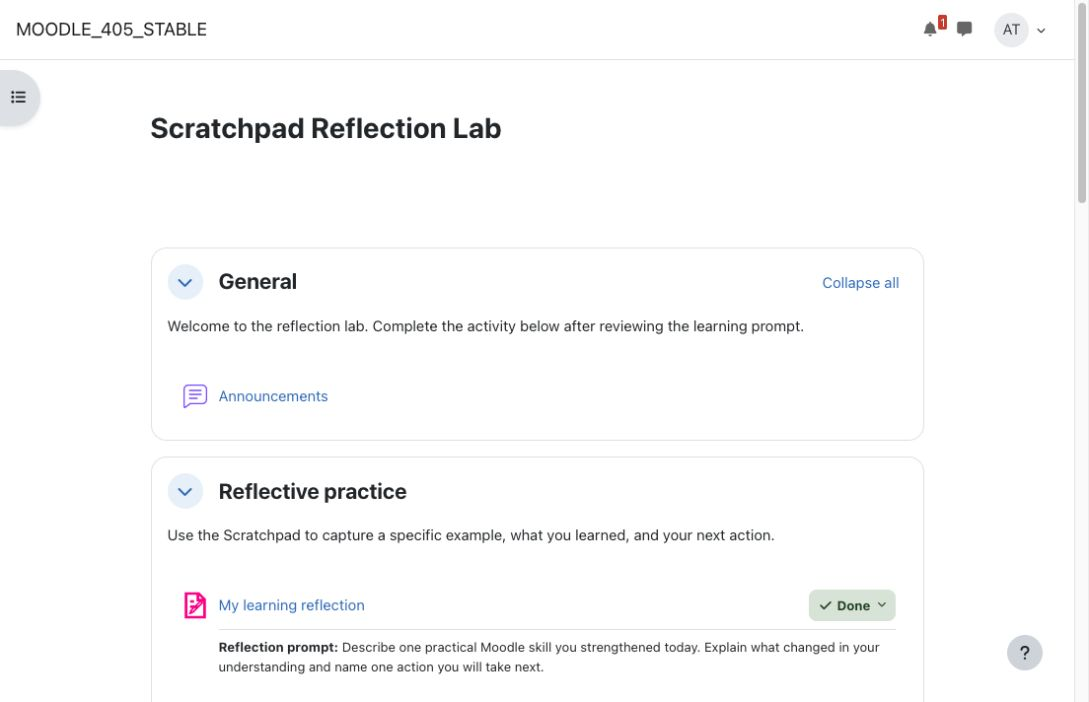
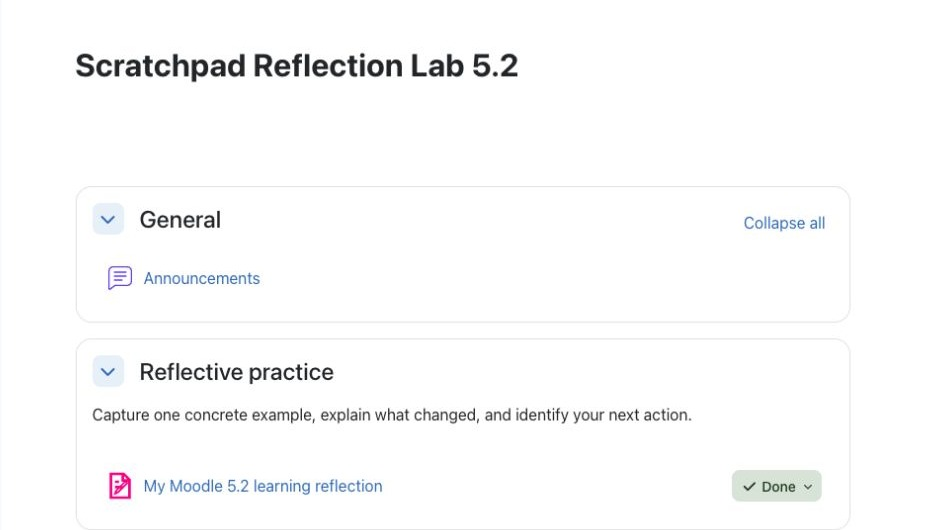
Prepare Moodle 5.2 stable support

diff --git a/tests/task/send_feedback_notifications_test.php b/tests/task/send_feedback_notifications_test.php
@@ -17,9 +17,8 @@
 namespace mod_scratchpad;
 
 use mod_scratchpad\task\send_feedback_notifications;
+use PHPUnit\Framework\Attributes\CoversClass;
 
-// Moodle 3.4 supports PHP 7.0, where the void return type is unavailable.
-// phpcs:disable moodle.PHPUnit.TestReturnType.MissingReturnType
 /**
  * Tests for the feedback notification scheduled task.
  *
@@ -27,13 +26,13 @@ use mod_scratchpad\task\send_feedback_notifications;
  * @category   test
  * @copyright  2026 Pukunui Malaysia
  * @license    http://www.gnu.org/copyleft/gpl.html GNU GPL v3 or later
- * @covers     \mod_scratchpad\task\send_feedback_notifications
  */
+#[CoversClass(send_feedback_notifications::class)]
 final class send_feedback_notifications_test extends \advanced_testcase {
     /**
      * The task is installed and has a translated name.
      */
-    public function test_task_is_registered() {
+    public function test_task_is_registered(): void {
         $task = \core\task\manager::get_scheduled_task(send_feedback_notifications::class);
 
         $this->assertInstanceOf(send_feedback_notifications::class, $task);
@@ -46,7 +45,7 @@ final class send_feedback_notifications_test extends \advanced_testcase {
     /**
      * Feedback inside the editing window remains queued.
      */
-    public function test_execute_defers_recent_feedback() {
+    public function test_execute_defers_recent_feedback(): void {
         global $CFG, $DB;
 
         $this->resetAfterTest();
@@ -64,7 +63,7 @@ final class send_feedback_notifications_test extends \advanced_testcase {
     /**
      * Eligible feedback is sent and is not sent again.
      */
-    public function test_execute_sends_feedback_once() {
+    public function test_execute_sends_feedback_once(): void {
         global $CFG, $DB;
 
         $this->resetAfterTest();
@@ -90,7 +89,7 @@ final class send_feedback_notifications_test extends \advanced_testcase {
      * @param int $timemarked Time at which feedback was saved.
      * @return \stdClass
      */
-    private function create_graded_entry($timemarked) {
+    private function create_graded_entry(int $timemarked): \stdClass {
         global $DB;
 
         $generator = $this->getDataGenerator();
@@ -118,4 +117,3 @@ final class send_feedback_notifications_test extends \advanced_testcase {
         return $entry;
     }
 }
-// phpcs:enable moodle.PHPUnit.TestReturnType.MissingReturnType

diff --git a/version.php b/version.php
@@ -28,8 +28,8 @@
 defined('MOODLE_INTERNAL') || die();
 
 $plugin->component = 'mod_scratchpad';
-$plugin->version = 2026081400;
-$plugin->requires = 2024100700;
-$plugin->supported = [405, 405];
-$plugin->release = '1.0.3 (Build: 2026081400)';
+$plugin->version = 2026081401;
+$plugin->requires = 2026042000;
+$plugin->supported = [502, 502];
+$plugin->release = '1.0.4 (Build: 2026081401)';
 $plugin->maturity = MATURITY_STABLE;

diff --git a/README.md b/README.md
@@ -1,6 +1,6 @@
 # Scratchpad activity
 
-Scratchpad is a focused reflection activity for Moodle 4.5. Teachers pose a question, each student maintains an individual response, and teachers can review, grade, and provide personal feedback. Students can also download their reflections when the activity uses PDF mode.
+Scratchpad is a focused reflection activity for Moodle 5.2. Teachers pose a question, each student maintains an individual response, and teachers can review, grade, and provide personal feedback. Students can also download their reflections when the activity uses PDF mode.
 
 ## Features
 
@@ -14,7 +14,7 @@ Scratchpad is a focused reflection activity for Moodle 4.5. Teachers pose a ques
 
 ## Screenshots
 
-The screenshots below use fictional users and demonstration content from a Moodle 4.5 test course.
+The screenshots below use fictional users and demonstration content from a Moodle 5.2 test course.
 
 ### A simple learner reflection workflow
 
@@ -48,10 +48,10 @@ The activity overview gives teachers direct access to all submitted Scratchpad e
 
 ## Requirements
 
-- Moodle 4.5.x.
-- PHP and database versions supported by Moodle 4.5.
+- Moodle 5.2.x.
+- PHP and database versions supported by Moodle 5.2.
 
-This `MOODLE_405_STABLE` branch supports Moodle 4.5 only.
+This `MOODLE_502_STABLE` branch supports Moodle 5.2 only.
 
 ## Installation
 

diff --git a/docs/public/index.md b/docs/public/index.md
@@ -6,7 +6,7 @@ title: Scratchpad activity
 
 Scratchpad gives Moodle learners a private place to respond to a focused reflection prompt. Teachers can review every submitted entry, award a grade, and provide individual feedback without leaving the activity.
 
-The plugin supports Moodle 4.5 on the `MOODLE_405_STABLE` branch.
+The plugin supports Moodle 5.2 on the `MOODLE_502_STABLE` branch.
 
 ## What Scratchpad provides
 
